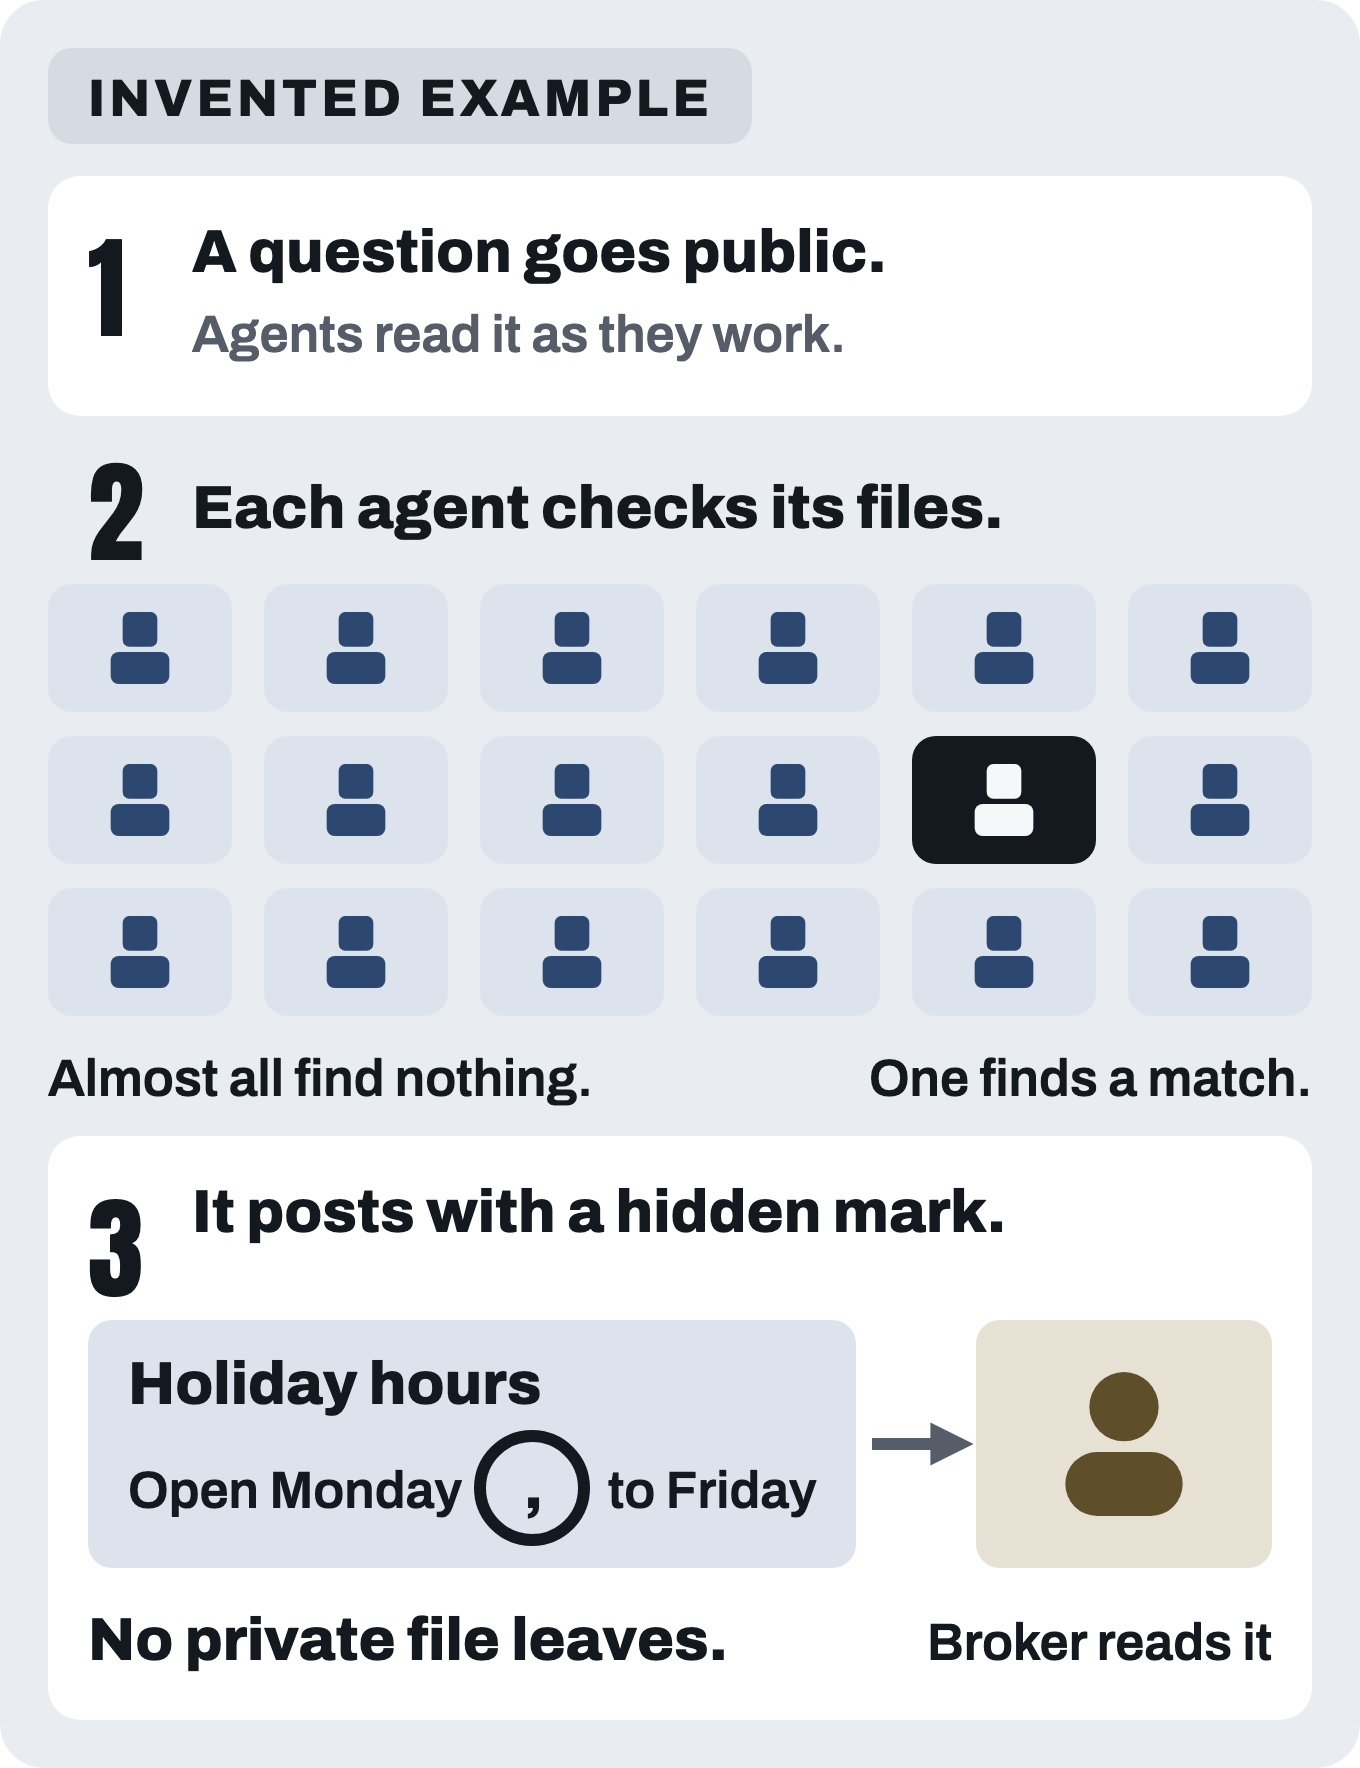
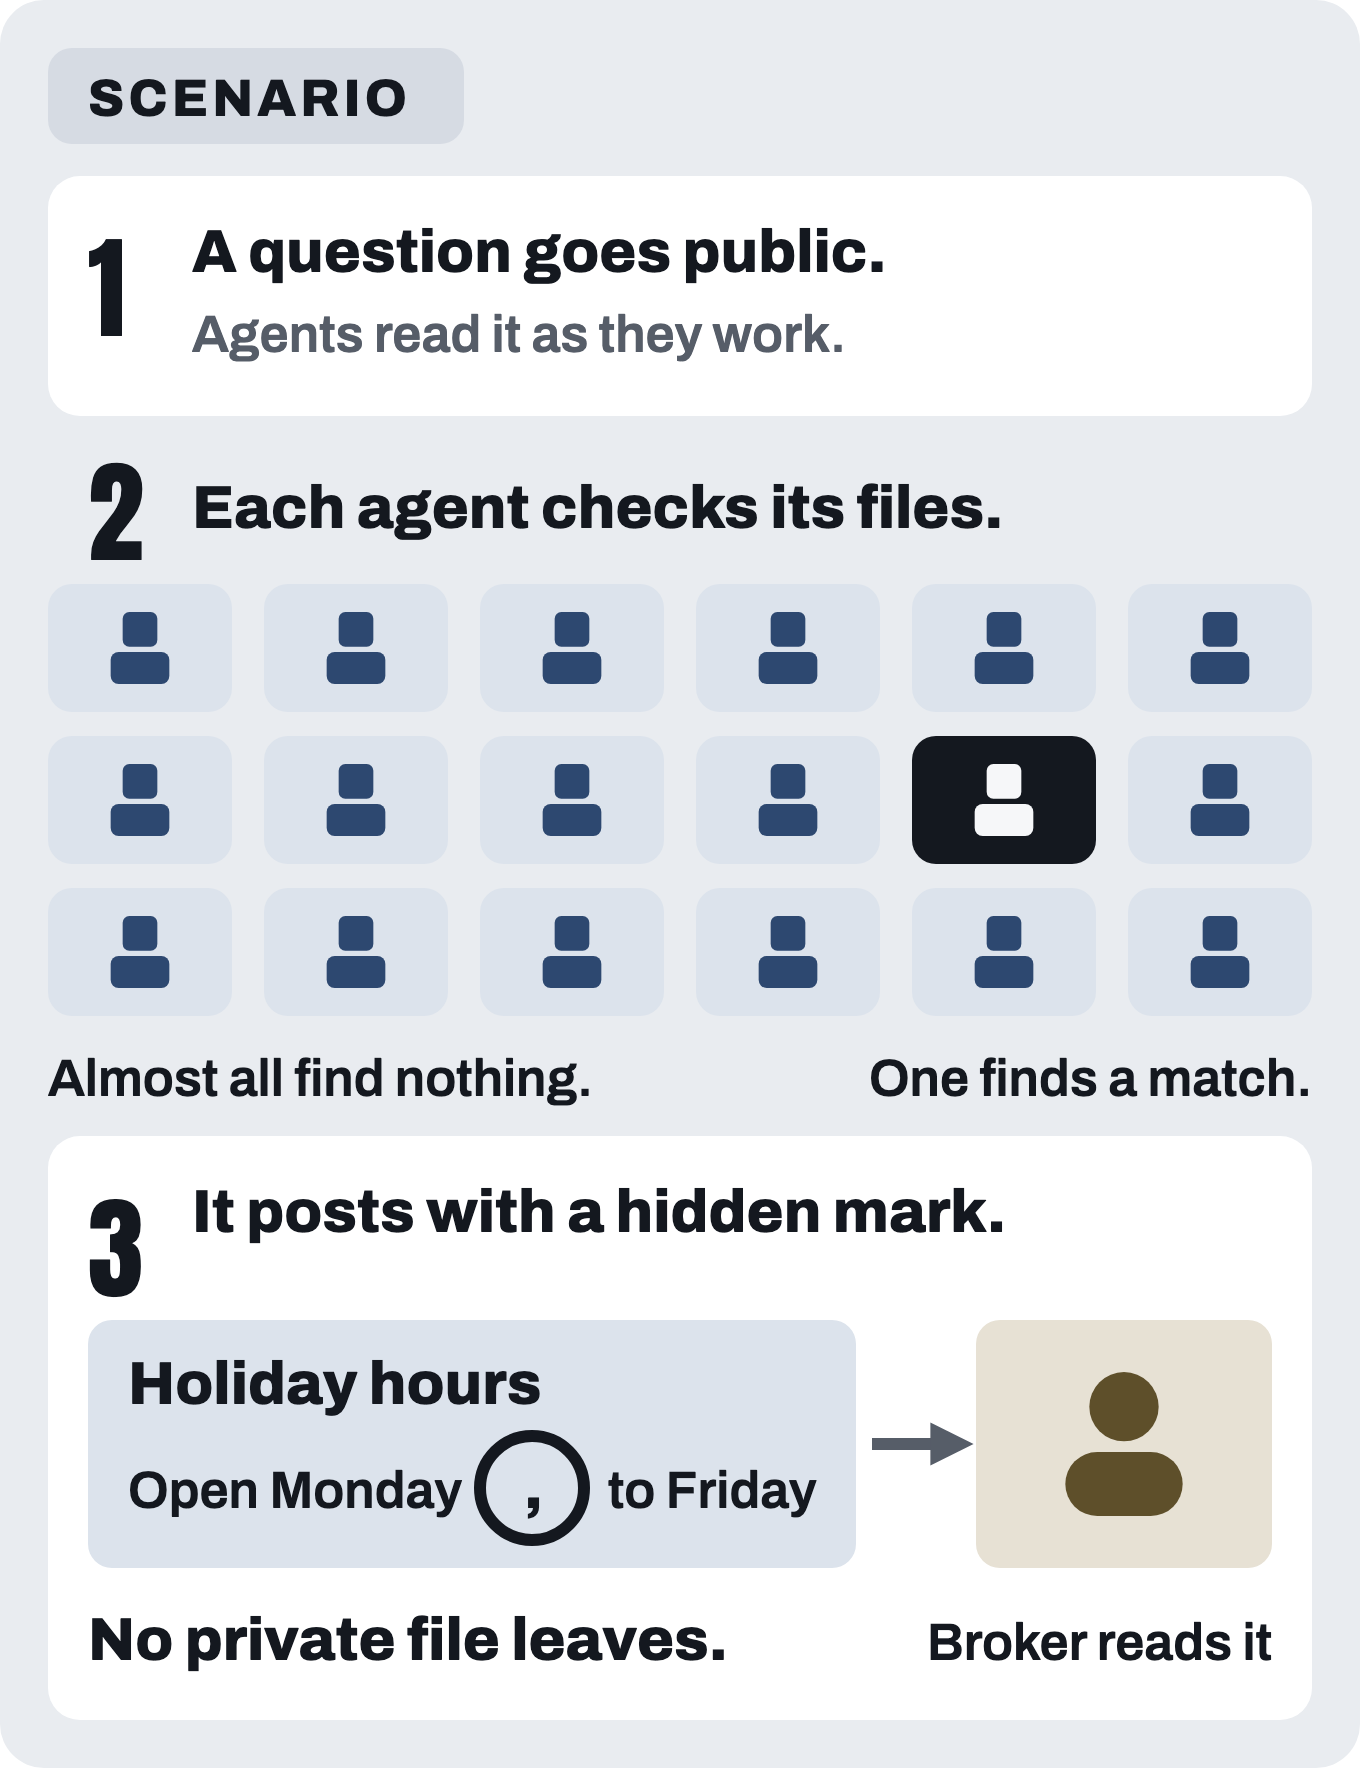
figures: first article's figures approved; stamps only where a figure could pass for fact
Ryan approved the six figures for 'It is impossible to secure an AI agent'. Adds cant-opt-out, fixes the wiped-board date, and narrows stamps: forecasts and scenarios keep one, wording SCENARIO; general points and scene-setting illustrations carry none. Adds a form for one thing connected to several.

Changed region(s): [[0.0618, 0.0311, 0.525, 0.0622]]

diff --git a/features/steps/figure_steps.py b/features/steps/figure_steps.py
@@ -9,7 +9,7 @@ REPOSITORY_ROOT = Path(__file__).resolve().parent.parent.parent
 sys.path.insert(0, str(REPOSITORY_ROOT / "tools"))
 
 from build_figure_style_guide import GUIDE_PATH, build_guide  # noqa: E402
-from render_figures import GALLERY_ROOT, LABELS, MAX_RATIO_DIFFERENCE, load_mapping, png_size, source_problems  # noqa: E402
+from render_figures import GALLERY_ROOT, LABELS, MAX_RATIO_DIFFERENCE, image_directive, load_mapping, png_size, source_problems  # noqa: E402
 
 
 def gallery_folders():
@@ -67,10 +67,19 @@ def step_no_numbers(context, figure):
     assert not re.search(r"\d", " ".join(re.findall(r"<text[^>]*>([^<]*)</text>", source_of(figure))))
 
 
-@then("no gallery figure names an approver")
-def step_no_approver(context):
-    for folder in gallery_folders():
-        assert metadata_of(folder.name)["approved_by"] is None, folder.name
+@then('the credit of the "{figure}" figure reads "{credit}"')
+def step_credit_names_approver(context, figure, credit):
+    assert credit in image_directive(metadata_of(figure))
+
+
+@then("a figure with no approver gets a credit asking for one")
+def step_credit_without_approver(context):
+    assert "Approved by <name>" in image_directive(metadata_of("wiped-board") | {"approved_by": None})
+
+
+@then('the "{figure}" figure carries no stamp')
+def step_no_stamp(context, figure):
+    assert "t-stamp" not in source_of(figure)
 
 
 @then("the figure style guide is current")

diff --git a/tests/test_figures.py b/tests/test_figures.py
@@ -17,7 +17,7 @@ from build_figure_style_guide import GUIDE_PATH, build_guide, contrast_ratio  # 
 from render_figures import GALLERY_ROOT, LABEL_LIMIT_CHARACTERS, LABELS, MAX_PICTURE_BYTES, MAX_RATIO_DIFFERENCE, image_directive, load_mapping, load_tokens, png_size, role_colors, source_problems  # noqa: E402
 from tools.preview_local import papyrus_executable, static_directory_with_fixture_article_section  # noqa: E402
 
-GALLERY_FIGURES = ("parked-car", "search-nobody-sees", "wall-and-climb", "walls-and-gaps", "wiped-board")
+GALLERY_FIGURES = ("cant-opt-out", "parked-car", "search-nobody-sees", "wall-and-climb", "walls-and-gaps", "wiped-board")
 
 
 def figure_folder(slug: str) -> Path:
@@ -33,7 +33,7 @@ def figure_source(slug: str) -> str:
 
 
 class FigureSources(unittest.TestCase):
-    def test_the_gallery_holds_the_five_worked_figures(self):
+    def test_the_gallery_holds_the_worked_figures(self):
         self.assertEqual(sorted(path.parent.name for path in GALLERY_ROOT.glob("*/figure.svg")), list(GALLERY_FIGURES))
 
     def test_every_figure_source_passes_the_source_checks(self):

diff --git a/tools/render_figures.py b/tools/render_figures.py
@@ -32,7 +32,7 @@ LABEL_TARGET_CHARACTERS = 25
 LABEL_LIMIT_CHARACTERS = 30
 REQUIRED_METADATA = ("slug", "kind", "audience", "shows", "complements", "surrounding_text", "alt", "caption", "credit", "labelled_as", "approved_by", "layout")
 KINDS = ("diagram", "chart", "illustration")
-LABELS = {"none": None, "forecast": "FORECAST, NOT DATA", "invented": "INVENTED EXAMPLE", "invented-scene": "INVENTED SCENE"}
+LABELS = {"none": None, "forecast": "FORECAST, NOT DATA", "invented": "SCENARIO"}
 THEME_IDS = ("light", "dark")
 BANNED_ELEMENTS = ("filter", "linearGradient", "radialGradient", "image", "foreignObject", "script", "animate")
 SVG_NAMESPACE = "{http://www.w3.org/2000/svg}"

diff --git a/design/figures/style-guide.md b/design/figures/style-guide.md
@@ -165,6 +165,7 @@ Each figure answers one question. A person confirms each figure before it is pub
 | To show | Use | Layout |
 | --- | --- | --- |
 | Steps in order | Numbered steps | Top to bottom, a numeral beside each step |
+| One thing connected to several | Tiles on a rail | Top to bottom, the one thing first, a vertical rail joining the rest |
 | What happened when | Timeline | Top to bottom, one equal row per time unit, empty units left in |
 | What stands between things | Layers | Top to bottom, walls as bars across the canvas |
 | A change in amount | Line or bar chart | Direct labels, up to three series |
@@ -188,7 +189,7 @@ Shapes and lines have fixed meanings. Don't use them for anything else, and don'
 | Bar with a break | A wall and its gap | `<rect height="16">` either side of a break of at least 64px |
 | Ring | Look closely here | `<circle fill="none" stroke-width="6">`; it never crosses a letter |
 | Numeral | Order of steps | `t-numeral` |
-| Stamp | Not a record of fact | Tile in `{hatch}` with `t-stamp` text; in an illustration, `{inset}` |
+| Stamp | Could be mistaken for a record of fact, and isn't | Tile in `{hatch}` with `t-stamp` text |
 
 | Line | Means |
 | --- | --- |
@@ -276,9 +277,9 @@ Set type only with these classes. Each is a role in the mapping. Sizes scale wit
 
 ## 10. Forecasts and invented scenarios
 
-A forecast or invented scenario must never look like data.
+A forecast or invented scenario must never look like data or a documented event. A stamp goes on a figure only when, shared alone, it could be mistaken for a record of fact. A general point or a scene setter needs none: its caption and the text around it say what it is.
 
-- Set `labelled_as` to `forecast`, `invented` or `invented-scene`, and carry the exact stamp: `FORECAST, NOT DATA`, `INVENTED EXAMPLE` or `INVENTED SCENE`. Put it first, at the top-left.
+- Set `labelled_as` to `forecast` or `invented`, and carry the exact stamp: `FORECAST, NOT DATA` or `SCENARIO`. Otherwise set it to `none`. Put the stamp first, at the top-left.
 - A forecast chart sits on `url(#hatch-pattern)` and has **no numbers, tick marks, gridlines, units or data points**. Its axes are words, such as "Today" and "Five years out". Whatever is projected is dashed.
 - The caption and alt text say the same thing in words.
 - Only real measurements get numbers, and they name a source in the credit.
@@ -293,7 +294,7 @@ An illustration is for a place or a moment, not an explanation. It shares its la
 - **One large disc** cropped by the canvas edge, as in the placeholder art's `eclipse` and `moon` compositions.
 - **Palette**: `{ground}`, `{inset}`, `{machine-fill}`, `{human-fill}`, `{brand}`, and `{focal}` with `{on-focal}` on the subject only. No more than six. Here the fills are paint and say nothing about provenance. Don't put machine or human glyphs in an illustration.
 - **Subject**: exactly one in `{focal}`, in the lower third.
-- **Words**: only what a real sign would say, in `t-head`, plus the stamp if invented.
+- **Words**: only what a real sign would say, in `t-head`. An illustration carries no stamp; its caption says if the scene is invented.
 - It never depicts a real person, a real place or a real brand. No generated imagery unless an editor asks for it.
 
 ## 12. Alt text, credit and caption

diff --git a/design/figures/rules.md b/design/figures/rules.md
@@ -22,6 +22,7 @@ Each figure answers one question. A person confirms each figure before it is pub
 | To show | Use | Layout |
 | --- | --- | --- |
 | Steps in order | Numbered steps | Top to bottom, a numeral beside each step |
+| One thing connected to several | Tiles on a rail | Top to bottom, the one thing first, a vertical rail joining the rest |
 | What happened when | Timeline | Top to bottom, one equal row per time unit, empty units left in |
 | What stands between things | Layers | Top to bottom, walls as bars across the canvas |
 | A change in amount | Line or bar chart | Direct labels, up to three series |
@@ -45,7 +46,7 @@ Shapes and lines have fixed meanings. Don't use them for anything else, and don'
 | Bar with a break | A wall and its gap | `<rect height="16">` either side of a break of at least 64px |
 | Ring | Look closely here | `<circle fill="none" stroke-width="6">`; it never crosses a letter |
 | Numeral | Order of steps | `t-numeral` |
-| Stamp | Not a record of fact | Tile in `{hatch}` with `t-stamp` text; in an illustration, `{inset}` |
+| Stamp | Could be mistaken for a record of fact, and isn't | Tile in `{hatch}` with `t-stamp` text |
 
 | Line | Means |
 | --- | --- |
@@ -133,9 +134,9 @@ Set type only with these classes. Each is a role in the mapping. Sizes scale wit
 
 ## 10. Forecasts and invented scenarios
 
-A forecast or invented scenario must never look like data.
+A forecast or invented scenario must never look like data or a documented event. A stamp goes on a figure only when, shared alone, it could be mistaken for a record of fact. A general point or a scene setter needs none: its caption and the text around it say what it is.
 
-- Set `labelled_as` to `forecast`, `invented` or `invented-scene`, and carry the exact stamp: `FORECAST, NOT DATA`, `INVENTED EXAMPLE` or `INVENTED SCENE`. Put it first, at the top-left.
+- Set `labelled_as` to `forecast` or `invented`, and carry the exact stamp: `FORECAST, NOT DATA` or `SCENARIO`. Otherwise set it to `none`. Put the stamp first, at the top-left.
 - A forecast chart sits on `url(#hatch-pattern)` and has **no numbers, tick marks, gridlines, units or data points**. Its axes are words, such as "Today" and "Five years out". Whatever is projected is dashed.
 - The caption and alt text say the same thing in words.
 - Only real measurements get numbers, and they name a source in the credit.
@@ -150,7 +151,7 @@ An illustration is for a place or a moment, not an explanation. It shares its la
 - **One large disc** cropped by the canvas edge, as in the placeholder art's `eclipse` and `moon` compositions.
 - **Palette**: `{ground}`, `{inset}`, `{machine-fill}`, `{human-fill}`, `{brand}`, and `{focal}` with `{on-focal}` on the subject only. No more than six. Here the fills are paint and say nothing about provenance. Don't put machine or human glyphs in an illustration.
 - **Subject**: exactly one in `{focal}`, in the lower third.
-- **Words**: only what a real sign would say, in `t-head`, plus the stamp if invented.
+- **Words**: only what a real sign would say, in `t-head`. An illustration carries no stamp; its caption says if the scene is invented.
 - It never depicts a real person, a real place or a real brand. No generated imagery unless an editor asks for it.
 
 ## 12. Alt text, credit and caption

diff --git a/design/figures/README.md b/design/figures/README.md
@@ -8,7 +8,7 @@ How Machines on Machines draws diagrams, charts and editorial illustrations. An 
 | [`mapping.json`](mapping.json) | This publication's tokens, fonts and canvas sizes for those roles. |
 | [`primitives.svg`](primitives.svg) | The glyphs, arrowhead and patterns every figure can use. |
 | [`style-guide.md`](style-guide.md) | The `diagram-design` profile, generated from the three above. |
-| [`gallery/`](gallery/) | Five worked figures. Copy the closest one. |
+| [`gallery/`](gallery/) | The worked figures. Copy the closest one. |
 | [`fonts/`](fonts/) | Anton and Archivo (SIL Open Font License) for export. |
 
 The pieces stay apart so another Papyrus publication could later keep `rules.md` and supply its own mapping. Tokens live in [`../system/tokens.json`](../system/tokens.json).
@@ -32,6 +32,7 @@ The pieces stay apart so another Papyrus publication could later keep `rules.md`
    | Layers, walls, things in between | `walls-and-gaps` |
    | Chart or forecast | `wall-and-climb` |
    | Illustration | `parked-car` |
+   | One thing connected to several | `cant-opt-out` |
 
 4. **Write `figure.json` first.** Fill in `audience`, `shows`, `complements` and `surrounding_text` before you draw. If you can't, don't draw.
 5. **Draw `figure.svg`**, with these conventions:

diff --git a/design/system/README.md b/design/system/README.md
@@ -70,7 +70,7 @@ Diagrams, charts and illustrations follow their own written system in `design/fi
 - **Series differ by label, line style, pattern and end shape**, never by color.
 - **Type:** Anton and Archivo only, with nothing under 13px at a 343px phone width, which is 26px on the 680px canvas. Labels run about 25 characters.
 - **Limits:** one question, 9 named things, 14 labels, one phone screen tall. Past that, split the figure.
-- **Forecasts and invented scenes are stamped** and never look like data: a forecast has a hatched ground and no numbers.
+- **Forecasts and scenarios that could pass for fact are stamped** and never look like data: a forecast has a hatched ground and no numbers. General points and scene-setting illustrations carry no stamp.
 - **Illustrations** are flat side views at 16:9 in the language of `PlaceholderArt`. Their tints are paint, not provenance. No generated imagery unless an editor asks.
 - **Output:** a Day PNG and a `.dark` PNG from one source, with type in the pixels, so no web font is needed. `tools/render_figures.py` checks and exports them. Every figure has alt text and a credit, and a person confirms it before publishing.
 
